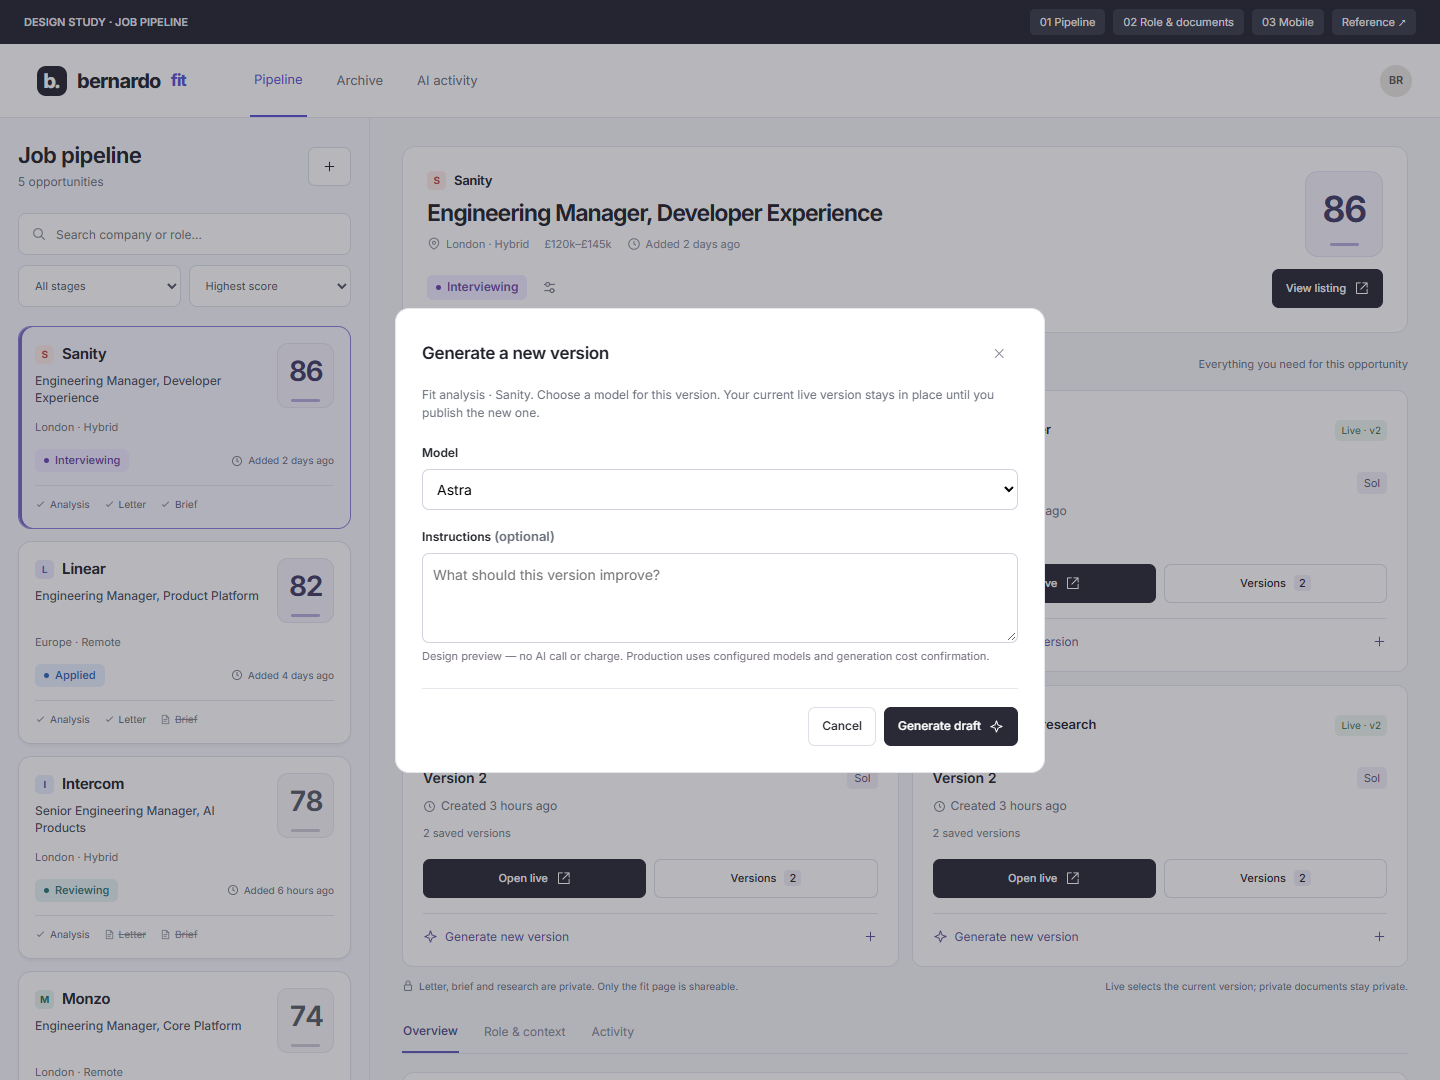
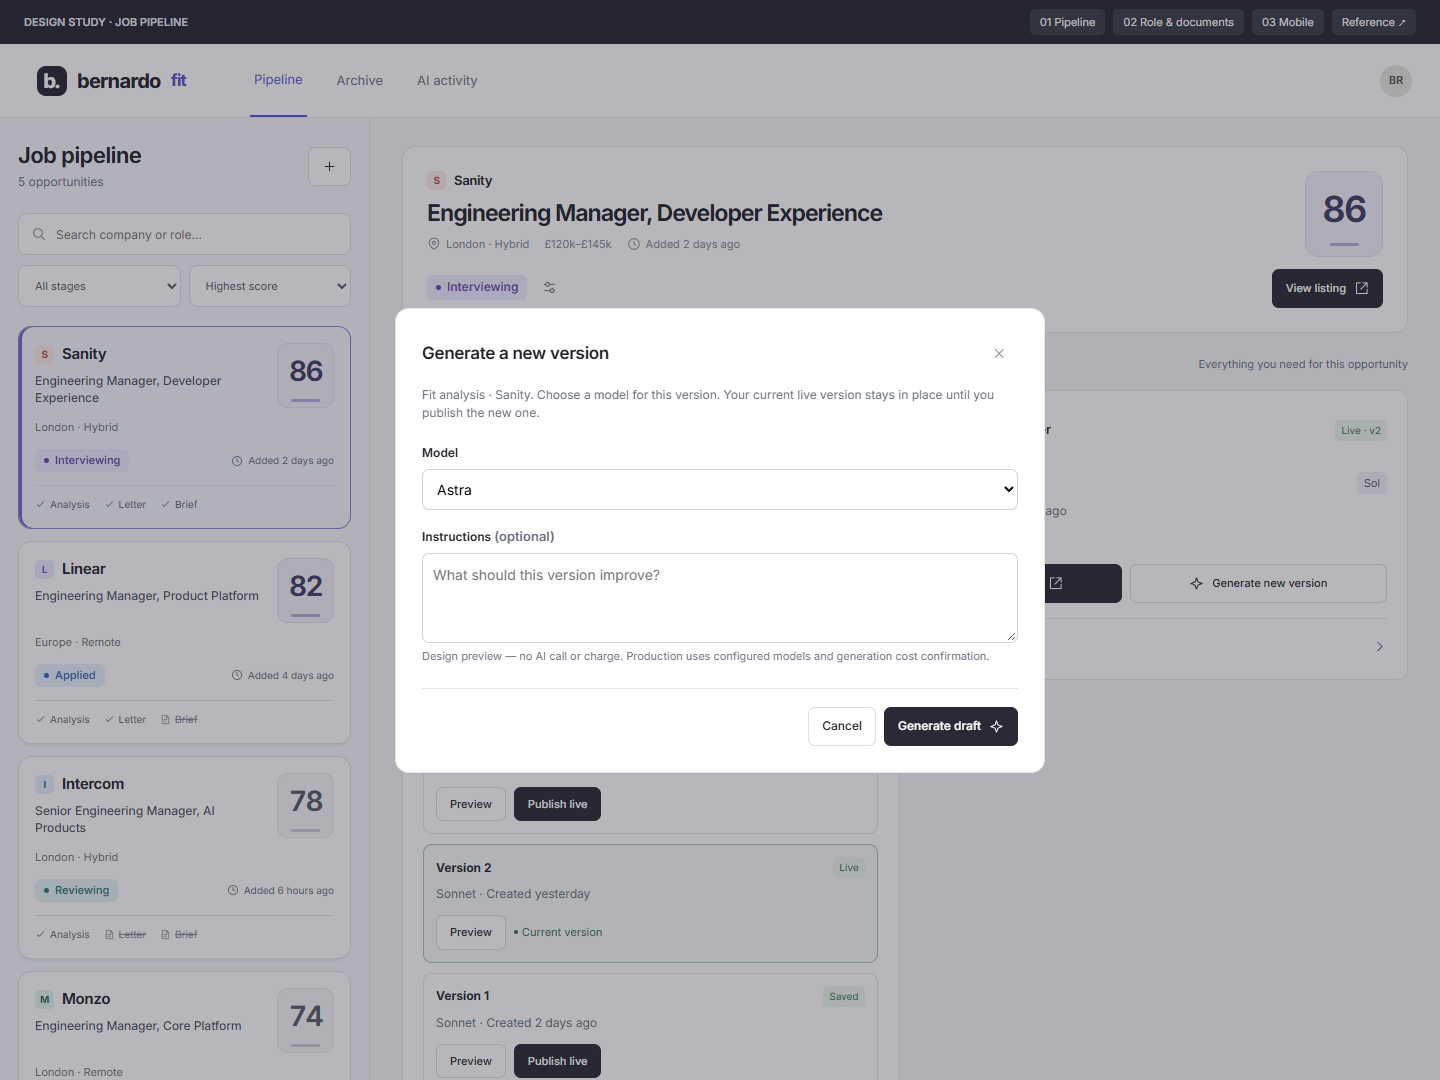
docs: show document version history inline in collapsible cards

diff --git a/docs/admin-ux/studio-mockups/index.html b/docs/admin-ux/studio-mockups/index.html
@@ -23,6 +23,8 @@
 .role-hero{display:grid;grid-template-columns:minmax(0,1fr) auto;gap:14px 24px}.role-hero .hero-text{grid-column:1;grid-row:1}.role-hero .hero-right{grid-column:1;grid-row:2;justify-content:flex-start;gap:5px}.score-actions{grid-column:2;grid-row:1 / span 2;display:flex;flex-direction:column;align-items:flex-end;gap:12px}.score-actions .score{width:78px;height:86px;font-size:36px}.listing-link{text-decoration:none;font-size:11px}.status-edit{width:34px;min-height:34px;padding:6px}.status-edit svg{width:15px;height:15px}.document-card{padding:20px;min-height:268px}.document-top{gap:12px;margin-bottom:22px}.document-identity{display:flex;align-items:center;gap:10px}.document-identity h3{margin:0}.document-state{font-size:10px;color:#38704b;white-space:nowrap;background:#edf6ef;padding:3px 6px;border-radius:5px}.version-summary{display:flex;justify-content:space-between;align-items:center;gap:10px}.version-summary strong{font-size:14px;font-weight:600}.version-summary span{font-size:11px;color:#5b536f;background:#f2eff8;border-radius:5px;padding:3px 7px}.document-age{font-size:12px;color:#69717e;display:flex;align-items:center;gap:5px;margin-top:8px}.document-age svg{width:13px;height:13px}.draft-note{font-size:11px;color:#6b50ac;margin:10px 0 17px}.draft-note.muted{color:#767c87}.document-actions{display:flex;gap:8px;margin-top:auto}.document-actions .btn{flex:1;font-size:11px}.document-actions .btn span{background:#efedf6;padding:0 5px;border-radius:4px}.new-version{background:none;border:0;border-top:1px solid var(--line);margin-top:15px;padding:14px 0 0;display:flex;align-items:center;gap:7px;color:#60519d;font-size:12px;width:100%;text-align:left}.new-version svg{width:15px;height:15px}.new-version svg:last-child{margin-left:auto}.document-empty{flex:1}.document-empty strong{font-size:13px;font-weight:500}.document-empty p{font-size:12px;color:#727985;line-height:1.7;margin:8px 0 20px}.generate-first{align-self:flex-start}.version-dialog{width:min(650px,calc(100vw - 28px));max-height:90vh;padding:26px}.dialog-heading{display:flex;justify-content:space-between;align-items:center;gap:15px}.dialog-heading h2{margin:0}.version-dialog .btn{float:none}.version-dialog .intro{font-size:12px;margin:12px 0 22px}.version-row{border:1px solid var(--line);border-radius:9px;margin:10px 0;padding:15px}.version-row.live{border-color:#a6c5ad;background:#f7fbf8}.version-row-head{display:flex;align-items:center;justify-content:space-between;font-size:13px;gap:10px}.version-row p{font-size:12px;margin:7px 0 12px}.version-row-actions{display:flex;gap:8px}.version-row .btn{font-size:11px;min-height:34px}.version-dialog label{display:block;font-size:12px;font-weight:600;margin:17px 0 7px}.version-dialog select,.version-dialog textarea{width:100%;padding:10px;border:1px solid #cfd3de;border-radius:7px;background:white;font:inherit}.version-dialog textarea{min-height:90px;resize:vertical}.dialog-actions{display:flex;justify-content:flex-end;gap:8px;border-top:1px solid var(--line);margin-top:23px;padding-top:18px}.preview-copy{background:#f7f8fb;border-radius:8px;padding:20px;line-height:1.8}.demo-note{font-size:11px!important;color:#777080!important}.version-notice{color:#39714d;font-size:12px;margin:15px 0}.doc-grid{align-items:stretch}
 @media(max-width:1100px){.document-top{align-items:flex-start;flex-direction:column}.document-actions{flex-wrap:wrap}.document-identity{gap:7px}}
 @media(max-width:800px){.doc-grid{grid-template-columns:1fr}.document-top{flex-direction:row;align-items:center}.role-hero{gap:14px 10px}.role-hero .hero-text{min-width:0}.role-hero h1{font-size:18px}.score-actions .score{width:61px;height:70px;font-size:30px}.listing-link{font-size:10px;padding:7px;gap:5px}.listing-link svg{width:12px}.document-actions .btn{min-height:40px}.document-state{font-size:10px}}
+
+.doc-grid{align-items:start}.document-actions .btn{padding:8px;font-size:11px}.document-actions .btn[data-generate]{flex:1.4}.inline-versions{border-top:1px solid var(--line);margin-top:15px}.inline-versions summary{list-style:none;cursor:pointer;display:flex;align-items:center;gap:8px;padding:15px 0 0;font-size:12px;color:#60519d;min-height:40px}.inline-versions summary::-webkit-details-marker{display:none}.inline-versions summary:focus-visible{outline:2px solid var(--primary);outline-offset:4px;border-radius:3px}.inline-versions summary>svg{margin-left:auto;width:15px;height:15px;transition:transform .15s}.inline-versions[open] summary>svg{transform:rotate(90deg)}.version-count{font-size:10px;background:#efedf6;border-radius:4px;padding:1px 6px}.inline-versions .version-list{padding-top:9px}.inline-versions .version-row:last-child{margin-bottom:0}.inline-versions .version-row p{color:#69717e}.inline-versions .version-row{padding:12px}.inline-versions .version-row-head{font-size:12px}
 </style>
 </head>
 <body>
@@ -48,7 +50,7 @@ function nav(){return '<aside class="sidebar">'+brand()+'<div><div class="side-s
 function chrome(){return '<header class="workspace-nav">'+brand()+'<nav aria-label="Workspace"><button class="active" data-view="pipeline">Pipeline</button><button data-notice="Archive">Archive</button><button data-notice="AI activity & usage">AI activity</button></nav><div class="avatar">BR</div></header><main class="mail-layout"><aside class="job-pane" aria-label="Jobs">'+pipeline()+'</aside><section class="reading-pane" aria-label="Selected job">'+roleView()+'</section></main>'}
 function jobCard(j){return '<button class="job-card '+(selected.id===j.id?'selected':'')+'" data-job="'+j.id+'" aria-pressed="'+(selected.id===j.id)+'"><span class="card-top"><span class="card-copy"><span class="company-line"><span class="monogram '+j.id+'">'+j.company[0]+'</span>'+j.company+'</span><span class="role-name">'+j.role+'</span></span><span class="score '+(j.score===null?'empty':j.score<80?'mid':'')+'" aria-label="'+(j.score===null?'Not scored':j.score+' out of 100 fit score')+'">'+(j.score??'—')+'</span></span><span class="card-location">'+j.location+'</span><span class="card-status">'+badge(j)+'<span class="added">'+icon('clock')+'Added '+j.age+'</span></span><span class="card-docs">'+['Analysis','Letter','Brief'].map((name,i)=>'<span class="'+(!j.docs[i]?'unavailable':'')+'">'+icon(j.docs[i]?'check':'file')+name+'</span>').join('')+'</span></button>'}
 function pipeline(){return '<div class="inbox-heading"><div><h1>Job pipeline</h1><p class="sub">5 opportunities</p></div><button class="btn" data-notice="Add opportunity" aria-label="Add opportunity">'+icon('plus')+'</button></div><div class="toolbar"><label class="search">'+icon('search')+'<input aria-label="Search jobs" placeholder="Search company or role…" id="search"></label><div class="filter-row"><select id="filter" aria-label="Filter by stage"><option value="all">All stages</option><option>Interviewing</option><option>Applied</option><option>Reviewing</option><option>Offer</option><option>New</option></select><select id="sort" aria-label="Sort roles"><option value="score">Highest score</option><option value="recent">Recently added</option></select></div></div><div class="job-list" id="job-list">'+jobs.map(jobCard).join('')+'</div><div class="list-foot"><span>5 opportunities · sorted by score</span></div>'}
-function docCard(title,type,color,meta,available=true){const d=documentState(title,available),live=d.versions.find(v=>v.id===d.live),latest=d.versions[0];return '<article class="document-card"><div class="document-top"><div class="document-identity"><div class="file-icon '+color+'">'+icon(type)+'</div><h3>'+title+'</h3></div><span class="document-state">'+(live?'Live · v'+live.id:latest?'Draft ready':'Not created')+'</span></div>'+(latest?'<div class="version-summary"><strong>'+ (live?'Version '+live.id:'Version '+latest.id+' · Draft')+'</strong><span>'+esc((live||latest).model)+'</span></div><p class="document-age">'+icon('clock')+'Created '+(live||latest).age+'</p>'+(latest.id!==d.live?'<p class="draft-note">'+(live?'v'+latest.id+' draft ready to review':'Review and publish your first version')+'</p>':'<p class="draft-note muted">'+d.versions.length+' saved versions</p>')+'<div class="document-actions"><button class="btn dark" data-open-version="'+title+'">Open '+(live?'live':'draft')+icon('external')+'</button><button class="btn" data-history="'+title+'">Versions <span>'+d.versions.length+'</span></button></div><button class="new-version" data-generate="'+title+'">'+icon('spark')+'Generate new version '+icon('plus')+'</button>':'<div class="document-empty"><strong>Your '+title.toLowerCase()+' starts here</strong><p>Choose a model and generate the first version. Review it before making it live.</p></div><button class="btn dark generate-first" data-generate="'+title+'">'+icon('spark')+'Generate document</button>')+'</article>'}
+function docCard(title,type,color,meta,available=true){const d=documentState(title,available),live=d.versions.find(v=>v.id===d.live),latest=d.versions[0];return '<article class="document-card"><div class="document-top"><div class="document-identity"><div class="file-icon '+color+'">'+icon(type)+'</div><h3>'+title+'</h3></div><span class="document-state">'+(live?'Live · v'+live.id:latest?'Draft ready':'Not created')+'</span></div>'+(latest?'<div class="version-summary"><strong>'+ (live?'Version '+live.id:'Version '+latest.id+' · Draft')+'</strong><span>'+esc((live||latest).model)+'</span></div><p class="document-age">'+icon('clock')+'Created '+(live||latest).age+'</p>'+(latest.id!==d.live?'<p class="draft-note">'+(live?'v'+latest.id+' draft ready to review':'Review and publish your first version')+'</p>':'<p class="draft-note muted">'+d.versions.length+' saved versions</p>')+'<div class="document-actions"><button class="btn dark" data-open-version="'+title+'">Open '+(live?'live':'draft')+icon('external')+'</button><button class="btn" data-generate="'+title+'">'+icon('spark')+'Generate new version</button></div>'+inlineVersions(title,d):'<div class="document-empty"><strong>Your '+title.toLowerCase()+' starts here</strong><p>Choose a model and generate the first version. Review it before making it live.</p></div><button class="btn dark generate-first" data-generate="'+title+'">'+icon('spark')+'Generate document</button>')+'</article>'}
 
 function roleView(){return '<button class="focus-back" data-view="pipeline">'+icon('back')+'Back to pipeline</button><div class="role-hero"><div class="score-actions">'+score(selected)+'<a class="btn dark listing-link" href="https://example.com/jobs/'+selected.id+'" target="_blank" rel="noopener noreferrer" title="Illustrative URL — production uses the saved job posting URL">View listing '+icon('external')+'</a></div><div class="hero-text"><div class="company-line"><span class="monogram '+selected.id+'">'+selected.company[0]+'</span>'+selected.company+'</div><h1>'+selected.role+'</h1><div class="hero-meta"><span>'+icon('location')+selected.location+'</span><span>'+selected.salary+'</span><span>'+icon('clock')+'Added '+selected.age+'</span></div></div><div class="hero-right">'+badge(selected)+'<button class="btn quiet status-edit" data-notice="Change stage" aria-label="Change status" title="Change status">'+icon('settings')+'</button></div></div><div class="section-head"><h2>Documents</h2><span class="sub">Everything you need for this opportunity</span></div><div class="doc-grid">'+docCard('Fit analysis','file','blue','Saved document',selected.docs[0])+docCard('Cover letter','letter','','Saved document',selected.docs[1])+docCard('Interview brief','brief','green','Saved document',selected.docs[2])+docCard('Company research','globe','gray','Saved document',selected.docs[2])+'</div><div class="docs-foot"><span>'+icon('lock')+'Letter, brief and research are private. Only the fit page is shareable.</span><span>Live selects the current version; private documents stay private.</span></div><nav class="role-tabs" aria-label="Role sections"><button class="active" data-panel="overview">Overview</button><button data-panel="context">Role & context</button><button data-panel="activity">Activity</button></nav><div id="role-content">'+overview()+'</div><p class="prototype-note">Design proposal · Illustrative roles, scores, documents and dates</p>'}
 function overview(){if(selected.id!=='sanity')return '<section class="panel"><h2>Role overview</h2><p class="sub">Assessment details and recorded activity for '+selected.company+' will appear here. The Sanity example shows the proposed populated layout.</p></section>';return '<div class="detail-grid"><section class="panel"><h2>Why this role</h2><div class="reason">'+icon('check')+'<div><strong>A strong match for your developer experience background</strong><p>Platform leadership, developer tooling and building products for technical teams.</p></div></div><div class="reason">'+icon('check')+'<div><strong>Leadership with room to stay close to the product</strong><p>Own the team’s direction while partnering with engineering and design.</p></div></div><div class="reason">'+icon('check')+'<div><strong>Location and working pattern fit</strong><p>London-based with a hybrid setup and a relevant compensation range.</p></div></div><div class="attention"><b>Worth exploring</b><br>Clarify the team’s remit and the balance between people management and hands-on work.</div></section><aside class="panel"><h2>Recent activity</h2><ol class="timeline"><li>Interview brief updated<small>3 hours ago</small></li><li>Moved to Interviewing<small>Yesterday</small></li><li>Cover letter generated<small>Yesterday</small></li><li>Added to your pipeline<small>2 days ago</small></li></ol><div class="next-step"><strong>Ready for the conversation</strong><p>Your brief and company research are ready to open.</p></div></aside></div>'}
@@ -65,11 +67,13 @@ let activeDocument='';
 function documentState(title,available=true){const key=selected.id+':'+title;if(!documentFixtures.has(key)){const count=title==='Fit analysis'?3:2;const versions=available?Array.from({length:count},(_,i)=>({id:count-i,model:i===0?'Sol':'Sonnet',age:i===0?'3 hours ago':i===1?'yesterday':'2 days ago'})):[];documentFixtures.set(key,{versions,live:versions.length?count:0});}return documentFixtures.get(key)}
 const manager=document.createElement('dialog');manager.className='version-dialog';manager.setAttribute('aria-label','Manage document versions');document.body.append(manager);
 function managerContent(title,body){manager.innerHTML='<div class="dialog-heading"><h2>'+title+'</h2><button class="btn quiet" data-close-manager aria-label="Close document manager">✕</button></div>'+body;if(!manager.open)manager.showModal();}
-function refreshDocuments(){document.querySelector('.reading-pane').innerHTML=roleView();}
-function historyView(title,notice=''){activeDocument=title;const d=documentState(title);managerContent(title+' · Versions','<p class="intro">Preview any saved version, then choose which one is live. '+(title==='Fit analysis'?'The live version is used by the shareable fit page.':'This document remains private.')+'</p>'+(notice?'<div class="version-notice" role="status">'+notice+'</div>':'')+d.versions.map(v=>'<div class="version-row '+(d.live===v.id?'live':'')+'"><div class="version-row-head"><strong>Version '+v.id+'</strong><span class="document-state">'+(d.live===v.id?'Live':v.id===d.versions[0].id?'Latest draft':'Saved')+'</span></div><p>'+v.model+' · Created '+v.age+'</p><div class="version-row-actions"><button class="btn" data-preview-version="'+v.id+'">Preview</button>'+(d.live!==v.id?'<button class="btn dark" data-publish-version="'+v.id+'">Publish live</button>':'<span class="saved-dot">Current version</span>')+'</div></div>').join('')+'<div class="dialog-actions"><button class="btn dark" data-generate="'+title+'">'+icon('spark')+'Generate new version</button></div><p class="demo-note">Interactive mockup: all version changes are local to this preview.</p>');}
+function refreshDocuments(){const open=new Set(Array.from(document.querySelectorAll('.inline-versions[open]')).map(el=>el.dataset.document));document.querySelector('.reading-pane').innerHTML=roleView();document.querySelectorAll('.inline-versions').forEach(el=>{el.open=open.has(el.dataset.document)});}
+function inlineVersions(title,d){return '<details class="inline-versions" data-document="'+title+'"><summary>Versions <span class="version-count">'+d.versions.length+'</span>'+icon('chevron')+'</summary><div class="version-list">'+d.versions.map(v=>'<div class="version-row '+(d.live===v.id?'live':'')+'"><div class="version-row-head"><strong>Version '+v.id+'</strong><span class="document-state">'+(d.live===v.id?'Live':v.id===d.versions[0].id?'Latest draft':'Saved')+'</span></div><p>'+v.model+' · Created '+v.age+'</p><div class="version-row-actions"><button class="btn" data-preview-version="'+v.id+'">Preview</button>'+(d.live!==v.id?'<button class="btn dark" data-publish-version="'+v.id+'">Publish live</button>':'<span class="saved-dot">Current version</span>')+'</div></div>').join('')+'</div></details>';}
+function historyView(title,notice=''){activeDocument=title;manager.close();refreshDocuments();const section=Array.from(document.querySelectorAll('.inline-versions')).find(el=>el.dataset.document===title);if(section){section.open=true;if(notice){const message=document.createElement('div');message.className='version-notice';message.setAttribute('role','status');message.textContent=notice;section.querySelector('.version-list').prepend(message);}section.querySelector('summary').focus({preventScroll:true});}}
+
 function generationView(title){activeDocument=title;const d=documentState(title);managerContent(d.versions.length?'Generate a new version':'Generate '+title,'<p class="intro">'+title+' · '+selected.company+'. Choose a model for this version. '+(d.live?'Your current live version stays in place until you publish the new one.':'The result will be saved as a draft for review.')+'</p><label for="generation-model">Model</label><select id="generation-model"><option>Sol</option><option>Astra</option><option>Sonnet</option><option>Opus</option></select><label for="generation-instructions">Instructions <span class="sub">(optional)</span></label><textarea id="generation-instructions" placeholder="What should this version improve?"></textarea><p class="demo-note">Design preview — no AI call or charge. Production uses configured models and generation cost confirmation.</p><div class="dialog-actions"><button class="btn" data-close-manager>Cancel</button><button class="btn dark" data-create-version>Generate draft '+icon('spark')+'</button></div>');}
 function versionPreview(id){const d=documentState(activeDocument),v=d.versions.find(v=>v.id===id);managerContent(activeDocument+' · v'+id,'<p class="intro">'+v.model+' · Created '+v.age+' · '+(d.live===id?'Live version':'Saved version')+'</p><div class="preview-copy"><strong>'+selected.company+' — '+activeDocument+'</strong><p>This is an illustrative document preview for version '+id+'. The application will show the actual saved content here so you can review it before publishing.</p></div><div class="dialog-actions"><button class="btn" data-history="'+activeDocument+'">Back to versions</button>'+(d.live!==id?'<button class="btn dark" data-publish-version="'+id+'">Publish live</button>':'')+'</div>');}
-document.addEventListener('click',e=>{const b=e.target.closest('button');if(!b)return;if(b.hasAttribute('data-close-manager'))manager.close();if(b.dataset.history)historyView(b.dataset.history);if(b.dataset.generate)generationView(b.dataset.generate);if(b.dataset.openVersion){activeDocument=b.dataset.openVersion;const d=documentState(activeDocument);versionPreview(d.live||d.versions[0].id);}if(b.dataset.previewVersion)versionPreview(Number(b.dataset.previewVersion));if(b.hasAttribute('data-create-version')){const d=documentState(activeDocument),model=document.getElementById('generation-model').value;d.versions.unshift({id:(d.versions[0]?.id||0)+1,model,age:'just now'});refreshDocuments();historyView(activeDocument,'New draft created. Preview it, then publish when ready.');}if(b.dataset.publishVersion){const d=documentState(activeDocument);d.live=Number(b.dataset.publishVersion);refreshDocuments();historyView(activeDocument,'Version '+d.live+' is now live in this preview.');}});
+document.addEventListener('click',e=>{const b=e.target.closest('button');if(!b)return;if(b.hasAttribute('data-close-manager'))manager.close();if(b.dataset.history)historyView(b.dataset.history);if(b.dataset.generate)generationView(b.dataset.generate);if(b.dataset.openVersion){activeDocument=b.dataset.openVersion;const d=documentState(activeDocument);versionPreview(d.live||d.versions[0].id);}if(b.closest('.inline-versions'))activeDocument=b.closest('.inline-versions').dataset.document;if(b.dataset.previewVersion)versionPreview(Number(b.dataset.previewVersion));if(b.hasAttribute('data-create-version')){const d=documentState(activeDocument),model=document.getElementById('generation-model').value;d.versions.unshift({id:(d.versions[0]?.id||0)+1,model,age:'just now'});historyView(activeDocument,'New draft created. Preview it, then publish when ready.');}if(b.dataset.publishVersion){const d=documentState(activeDocument);d.live=Number(b.dataset.publishVersion);historyView(activeDocument,'Version '+d.live+' is now live in this preview.');}});
 
 show(currentView,false);
 </script>

diff --git a/docs/admin-ux/studio-mockups/README.md b/docs/admin-ux/studio-mockups/README.md
@@ -52,14 +52,20 @@ Production work should use existing shadcn components, verify keyboard focus and
 
 ## Document lifecycle revision
 
-Each existing document card displays its live version number, model and relative creation time. Open live opens that exact version. Versions opens a compact version picker with each saved version's model, creation time, preview action and Publish live action. Private documents remain private: live means the selected current version, not public visibility.
+Each existing document card displays its live version number, model and relative creation time. Open live opens that exact version. Versions expands an inline collapsible list at the bottom of its card with each saved version's model, creation time, preview action and Publish live action. Private documents remain private: live means the selected current version, not public visibility.
 
 Generate new version opens a model selector and optional instructions. A new result is a draft; the live version stays in place until explicitly published. Empty cards have a prominent Generate document action leading to the same flow. Model labels mirror the application's current configured choices; the mockup makes no external AI calls and charges nothing. Production should preserve existing generation cost confirmation and load actual model availability, document content, version IDs and dates from the backend.
 
 The interactive mockup supports generating fixture drafts with different models, previewing saved versions, selecting an older live version and publishing a first version. Changes last only for the current page session.
 
-- [Version picker](05-document-versions.png)
+- [Expanded version history](05-document-versions.png)
 - [Model selection and generation](06-generate-version.png)
 - [Missing documents](07-missing-documents.png)
 
-Implement these compositions with shadcn Card, Badge, Button, Dialog, Select, Label, Textarea and Tooltip. Keep the primary actions visible rather than placing the version workflow in an overflow menu. On mobile, use one document card per row for readable metadata and comfortable controls.
+Implement these compositions with shadcn Card, Badge, Button, Dialog, Select, Label, Textarea, Collapsible and Tooltip. Keep the primary actions visible rather than placing the version workflow in an overflow menu. On mobile, use one document card per row for readable metadata and comfortable controls.
+
+### Inline version history
+
+Open live and Generate new version share the main action row. Versions is a full-width collapsible section beneath it, with a version count and disclosure chevron. Its expanded list shows each version's model, relative creation time, live status, Preview and Publish live actions. Each card expands independently. Preview and model selection continue to use dialogs; returning from preview, generation or publishing opens the relevant inline history. The mockup uses native details/summary for keyboard-accessible disclosure; implementation should use shadcn Collapsible.
+
+Targeted checks cover keyboard expand/collapse, the absence of a version-list popup, preview, publication, and preservation of the live version while generating a draft.
